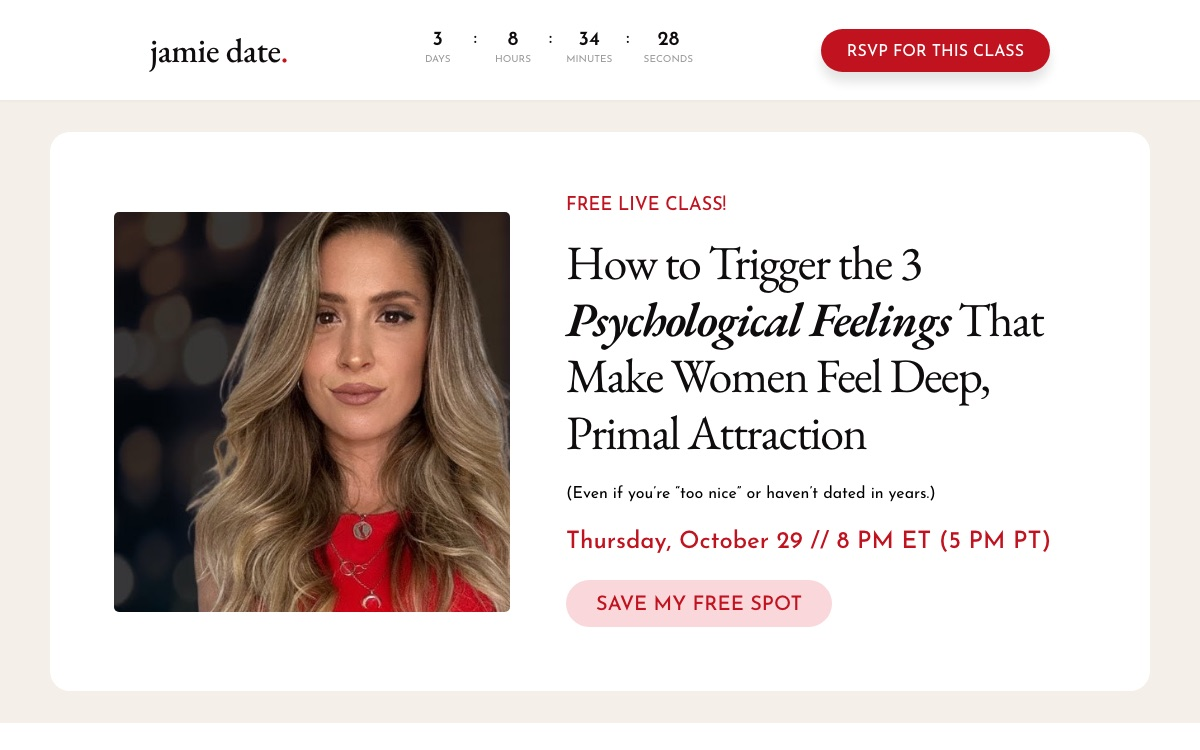
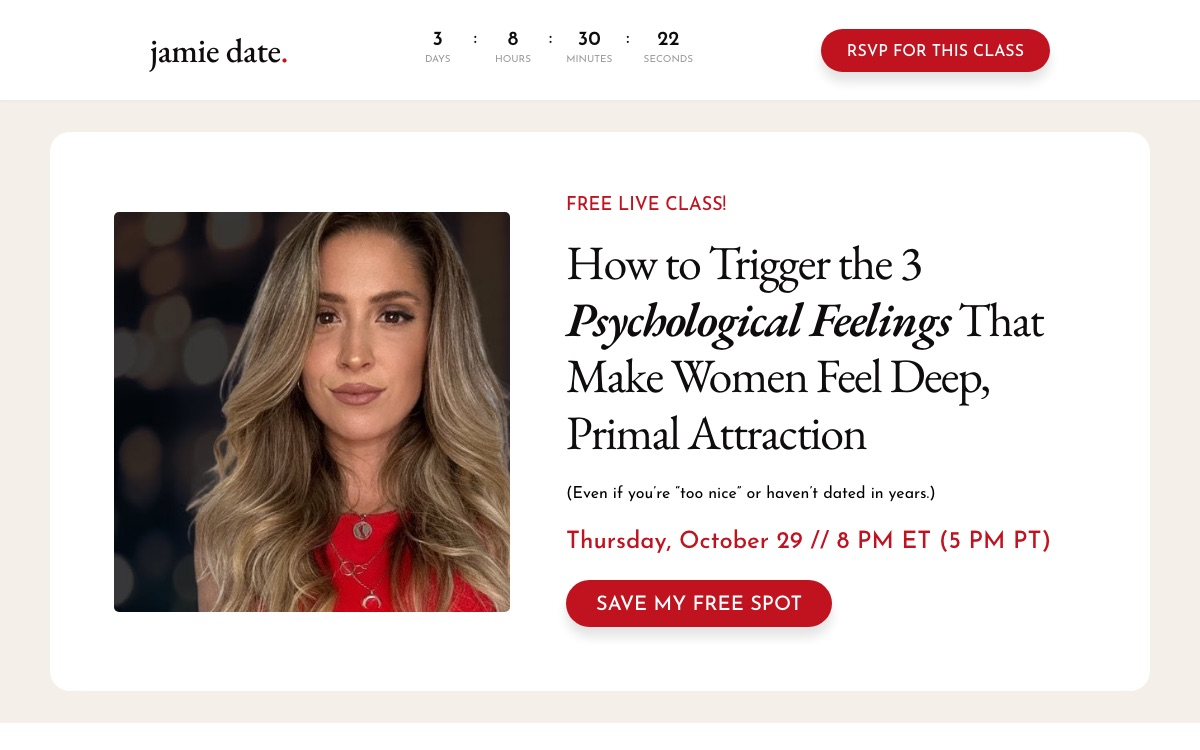
Round 5: class pages recoloured to Jamie's own palette (red, ink, cream, nude)

Changed region(s): [[0.4625, 0.7667, 0.7092, 0.8587], [0.555, 0.0307, 0.5858, 0.0613]]

diff --git a/index.html b/index.html
@@ -204,16 +204,16 @@
             <span class="group__rule"></span>
           </div>
           <div class="grid grid--3">
-            <button class="pcard reveal" data-title="Your free class sign-up page" data-embed="register/?v=5">
-              <span class="thumb"><span class="thumb__bar"><i></i><i></i><i></i><span class="thumb__url">jamiedatecoaching.com/free-class</span></span><img class="thumb__img" src="assets/img/register-preview.jpg?v=5" alt="Your free class sign-up page preview" loading="lazy" /></span>
+            <button class="pcard reveal" data-title="Your free class sign-up page" data-embed="register/?v=6">
+              <span class="thumb"><span class="thumb__bar"><i></i><i></i><i></i><span class="thumb__url">jamiedatecoaching.com/free-class</span></span><img class="thumb__img" src="assets/img/register-preview.jpg?v=6" alt="Your free class sign-up page preview" loading="lazy" /></span>
               <span class="pcard__body"><span><span class="pcard__kicker">Step 1 · Register</span><span class="pcard__title">Your free class sign-up page</span><span class="pcard__desc">The headline, the 3 feelings, your story and real client words. Men save a seat and get Becoming Boyfriend Material free.</span></span><span class="pcard__link">Open preview <span class="arrow" aria-hidden="true"></span></span></span>
             </button>
             <button class="pcard reveal" data-title="Your thank-you page" data-embed="thank-you/?v=5">
-              <span class="thumb"><span class="thumb__bar"><i></i><i></i><i></i><span class="thumb__url">jamiedatecoaching.com/youre-in</span></span><img class="thumb__img" src="assets/img/thankyou-preview.jpg?v=5" alt="Your thank-you page preview" loading="lazy" /></span>
+              <span class="thumb"><span class="thumb__bar"><i></i><i></i><i></i><span class="thumb__url">jamiedatecoaching.com/youre-in</span></span><img class="thumb__img" src="assets/img/thankyou-preview.jpg?v=6" alt="Your thank-you page preview" loading="lazy" /></span>
               <span class="pcard__body"><span><span class="pcard__kicker">Step 2 · Show up</span><span class="pcard__title">Your thank-you page</span><span class="pcard__desc">A short video from you, a calendar add, a reply-yes email and the WhatsApp group where the free guide lands.</span></span><span class="pcard__link">Open preview <span class="arrow" aria-hidden="true"></span></span></span>
             </button>
             <button class="pcard reveal" data-title="Your replay page" data-embed="replay/?v=5">
-              <span class="thumb"><span class="thumb__bar"><i></i><i></i><i></i><span class="thumb__url">jamiedatecoaching.com/replay</span></span><img class="thumb__img" src="assets/img/replay-preview.jpg?v=5" alt="Your replay page preview" loading="lazy" /></span>
+              <span class="thumb"><span class="thumb__bar"><i></i><i></i><i></i><span class="thumb__url">jamiedatecoaching.com/replay</span></span><img class="thumb__img" src="assets/img/replay-preview.jpg?v=6" alt="Your replay page preview" loading="lazy" /></span>
               <span class="pcard__body"><span><span class="pcard__kicker">Step 3 · Apply</span><span class="pcard__title">Your replay page</span><span class="pcard__desc">The replay, then a short application that books a call with you or your team on the spot: &ldquo;See if you qualify&rdquo;.</span></span><span class="pcard__link">Open preview <span class="arrow" aria-hidden="true"></span></span></span>
             </button>
           </div>

diff --git a/assets/class.css b/assets/class.css
@@ -1,8 +1,8 @@
 /* Jamie Date · live class pages (register, thank-you, replay)
    EB Garamond headings, Josefin Sans text, white header with countdown,
-   one hero card on a cream band, pill buttons. Jamie's colours: red, ink, cream. */
+   one hero card on a cream band, pill buttons. Jamie's colours: red, ink, cream, nude. */
 :root{
-  --ink:#0e0d0d;--text:#333;--red:#c1121f;--pink:#f9d7da;--cream:#f5efe9;--line:rgba(14,13,13,.12);
+  --ink:#0e0d0d;--text:#333;--red:#c1121f;--nude:#e9d7cd;--nude-2:#d8bcb0;--cream:#f5efe9;--line:rgba(14,13,13,.12);
   --serif:"EB Garamond",Garamond,Georgia,serif;
   --sans:"Josefin Sans",-apple-system,"Segoe UI",Helvetica,Arial,sans-serif;
 }
@@ -19,7 +19,7 @@ button{font:inherit;cursor:pointer}
 .pill{display:inline-flex;align-items:center;justify-content:center;border:0;border-radius:50px;font:500 20px/1 var(--sans);text-transform:uppercase;padding:15px 30px 12px;transition:transform .2s ease,filter .2s ease}
 .pill:hover{transform:translateY(-1px);filter:brightness(1.05)}
 .pill--wine{background:var(--red);color:#fff;font-size:16px;padding:15px 26px 12px;box-shadow:0 10px 11px rgba(0,0,0,.11)}
-.pill--pink{background:var(--pink);color:var(--red)}
+.pill--red{background:var(--red);color:#fff;box-shadow:0 10px 11px rgba(0,0,0,.11)}
 .pill--ink{background:var(--ink);color:#fff}
 .pill--full{width:100%}
 
@@ -61,13 +61,13 @@ button{font:inherit;cursor:pointer}
 .fit{padding:0 20px 40px}
 .box{max-width:1020px;margin:0 auto 40px;border-radius:12px;padding:56px 48px 60px}
 .box .sh{text-align:left}
-.box--pink{background:var(--pink)}
+.box--nude{background:var(--nude)}
 .box--ink{background:var(--ink)}
-.box--ink .sh{color:var(--pink)}
+.box--ink .sh{color:var(--nude)}
 .tl{list-style:none;margin:30px 0 0;padding:0;max-width:600px}
 .tl li{display:flex;align-items:center;gap:16px;padding:18px 0;border-bottom:1px solid rgba(14,13,13,.08);font:400 16px/1.4 var(--sans);color:#000}
 .box--ink .tl li{color:#fff;border-bottom:0;padding:16px 0}
-.tg{flex:none;width:28px;height:16px;border-radius:10px;background:#fff;position:relative}
+.tg{flex:none;width:28px;height:16px;border-radius:10px;background:var(--nude);position:relative}
 .tg::after{content:"";position:absolute;top:3px;left:3px;width:10px;height:10px;border-radius:50%;background:var(--ink)}
 .tg--on{background:var(--red)}
 .tg--on::after{left:auto;right:3px;background:#fff}
@@ -82,7 +82,7 @@ button{font:inherit;cursor:pointer}
 .host-photo img{width:100%;height:100%;object-fit:cover;object-position:50% 15%}
 
 /* limited spots band */
-.band{background:var(--pink);text-align:center;padding:36px 20px 40px}
+.band{background:var(--nude);text-align:center;padding:36px 20px 40px}
 .band h2{font-size:56px;line-height:1.2;letter-spacing:-1.5px;color:var(--ink);margin-bottom:18px}
 
 /* footer */

diff --git a/register/index.html b/register/index.html
@@ -11,7 +11,7 @@
 <link rel="preconnect" href="https://fonts.googleapis.com">
 <link rel="preconnect" href="https://fonts.gstatic.com" crossorigin>
 <link href="https://fonts.googleapis.com/css2?family=EB+Garamond:ital,wght@0,400;0,500;0,600;1,500;1,600&family=Josefin+Sans:wght@300;400;500;600&display=swap" rel="stylesheet">
-<link rel="stylesheet" href="../assets/class.css?v=5">
+<link rel="stylesheet" href="../assets/class.css?v=6">
 </head>
 <body>
 
@@ -37,7 +37,7 @@
         <h1>How to Trigger the 3 <em>Psychological Feelings</em> That Make Women Feel Deep, Primal Attraction</h1>
         <p class="sub">(Even if you&rsquo;re &ldquo;too nice&rdquo; or haven&rsquo;t dated in years.)</p>
         <p class="when" id="whenTxt">Thursday, October 29 // 8 PM ET (5 PM PT)</p>
-        <button type="button" class="pill pill--pink" data-open-modal>Save my free spot</button>
+        <button type="button" class="pill pill--red" data-open-modal>Save my free spot</button>
       </div>
     </div>
   </section>
@@ -53,7 +53,7 @@
   </section>
 
   <section class="fit">
-    <div class="box box--pink">
+    <div class="box box--nude">
       <h2 class="sh">This is for you if...</h2>
       <ul class="tl">
         <li><span class="tg tg--on"></span>You&rsquo;re successful but struggle with dating confidence.</li>

diff --git a/replay/index.html b/replay/index.html
@@ -272,7 +272,7 @@
   .pill-eb{margin-bottom:16px}
 
   /* same look as the register page: EB Garamond headings, Josefin Sans text, white header, cream bands */
-  :root{--display:"EB Garamond",Garamond,Georgia,serif;--sans:"Josefin Sans",-apple-system,Helvetica,Arial,sans-serif;--font:"Josefin Sans",-apple-system,Helvetica,Arial,sans-serif;--pink:#f9d7da}
+  :root{--display:"EB Garamond",Garamond,Georgia,serif;--sans:"Josefin Sans",-apple-system,Helvetica,Arial,sans-serif;--font:"Josefin Sans",-apple-system,Helvetica,Arial,sans-serif;--nude:#e9d7cd}
   body{background:#fff!important;font-family:var(--sans)!important}
   h1,h2,h3{font-family:var(--display)!important;font-weight:500!important;letter-spacing:-1px!important;color:var(--ink)}
   h1 em,h2 em{font-style:italic;font-weight:600}

diff --git a/thank-you/index.html b/thank-you/index.html
@@ -230,7 +230,7 @@
   .pill-eb{margin-bottom:16px}
 
   /* same look as the register page: EB Garamond headings, Josefin Sans text, white header, cream bands */
-  :root{--display:"EB Garamond",Garamond,Georgia,serif;--sans:"Josefin Sans",-apple-system,Helvetica,Arial,sans-serif;--font:"Josefin Sans",-apple-system,Helvetica,Arial,sans-serif;--pink:#f9d7da}
+  :root{--display:"EB Garamond",Garamond,Georgia,serif;--sans:"Josefin Sans",-apple-system,Helvetica,Arial,sans-serif;--font:"Josefin Sans",-apple-system,Helvetica,Arial,sans-serif;--nude:#e9d7cd}
   body{background:#fff!important;font-family:var(--sans)!important}
   h1,h2,h3{font-family:var(--display)!important;font-weight:500!important;letter-spacing:-1px!important;color:var(--ink)}
   h1 em,h2 em{font-style:italic;font-weight:600}
